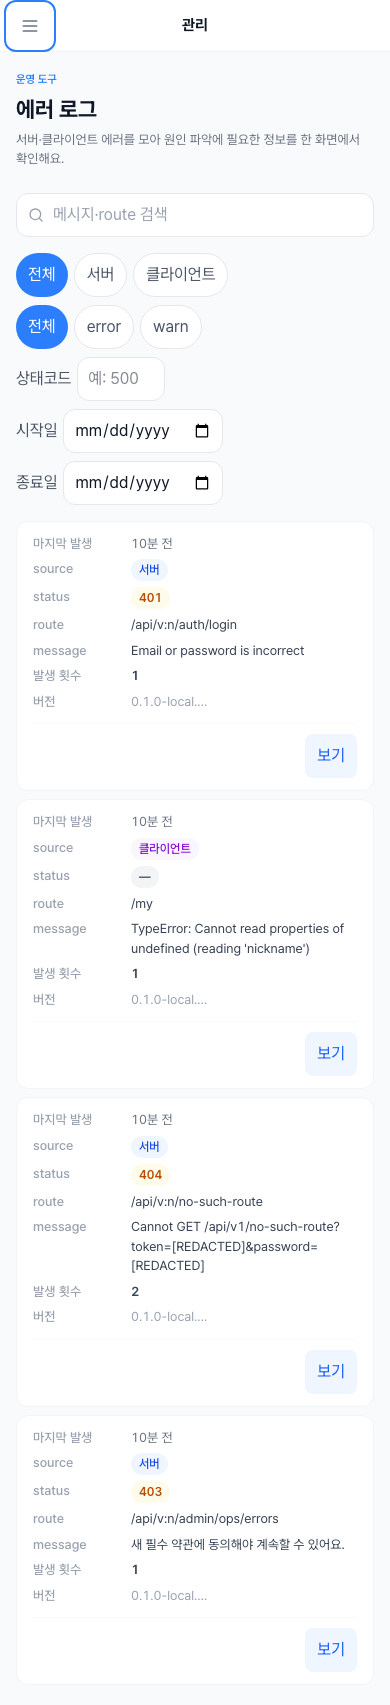
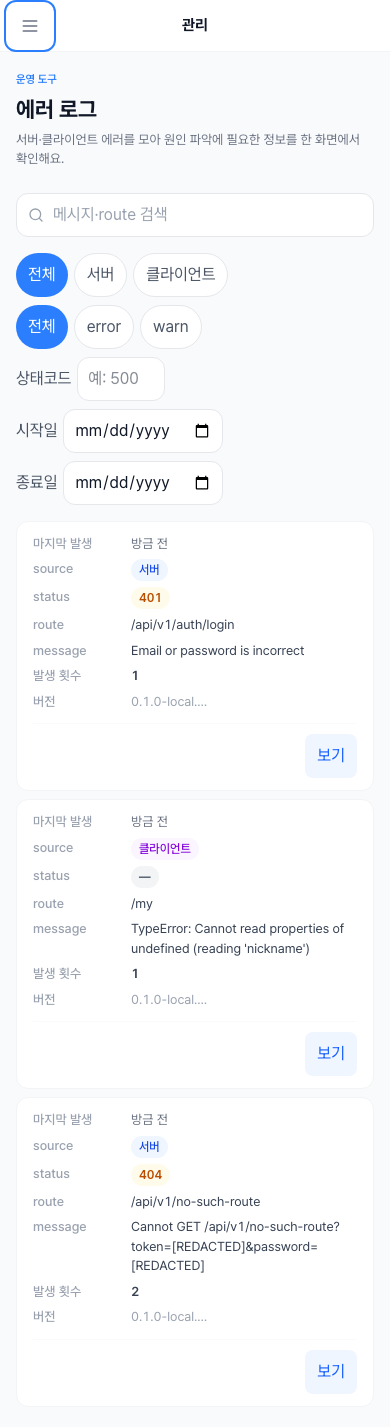
fix(v1/qa): 캡처 대기 조건 교정 + route 수정 반영본으로 스크린샷 재생성
- 대기 조건이 본문 텍스트 정규식('약관')이라 사이드바 메뉴만으로도 즉시 참이 됐다.
  목록이 그려지기 전에 찍힐 수 있어 산출물이 불안정했다 — tbody 행 또는 빈 상태 문구를
  신호로 바꿨다.
- 스크린샷·probe 가 route 정규화 수정 이전 상태(/api/v:n/auth/login)라 PR 증거가 현재
  동작과 어긋났다. 최신 코드로 재캡처해 /api/v1/auth/login 이 나오는 화면으로 갱신했다.

Claude-Session: https://claude.ai/code/session_01BuGbgzuudDpVFY8fEQuuuB

diff --git a/scripts/capture_admin_error_logs.js b/scripts/capture_admin_error_logs.js
@@ -32,9 +32,13 @@ const WIDTHS = [
 
     await page.goto(`${BASE}/admin/ops/errors`, { waitUntil: 'domcontentloaded', timeout: 60000 });
     await page.waitForLoadState('load', { timeout: 30000 }).catch(() => {});
-    // 목록 행이 실제로 그려질 때까지 기다린다 — 로딩 스켈레톤만 찍히면 검증이 안 된다.
+    // 목록이 실제로 그려질 때까지 기다린다 — 로딩 스켈레톤만 찍히면 검증이 안 된다.
+    // 본문 텍스트로 판정하면 안 된다: 사이드바에 '약관' 같은 메뉴가 항상 떠 있어서
+    // 페이지가 뜨기만 해도 조건이 참이 되고, 행이 없는 화면을 찍게 된다.
+    // 목록 행이 생겼거나 "없어요" 빈 상태가 확정된 시점만 신호로 받는다.
     await page.waitForFunction(
-      () => /Cannot GET|TypeError|약관/.test(document.body.innerText),
+      () => document.querySelectorAll('tbody tr').length > 0
+        || /없어요|없습니다/.test(document.querySelector('main')?.innerText ?? ''),
       { timeout: 30000 },
     ).catch(() => {});
     await page.addStyleTag({ content: HIDE }).catch(() => {});
